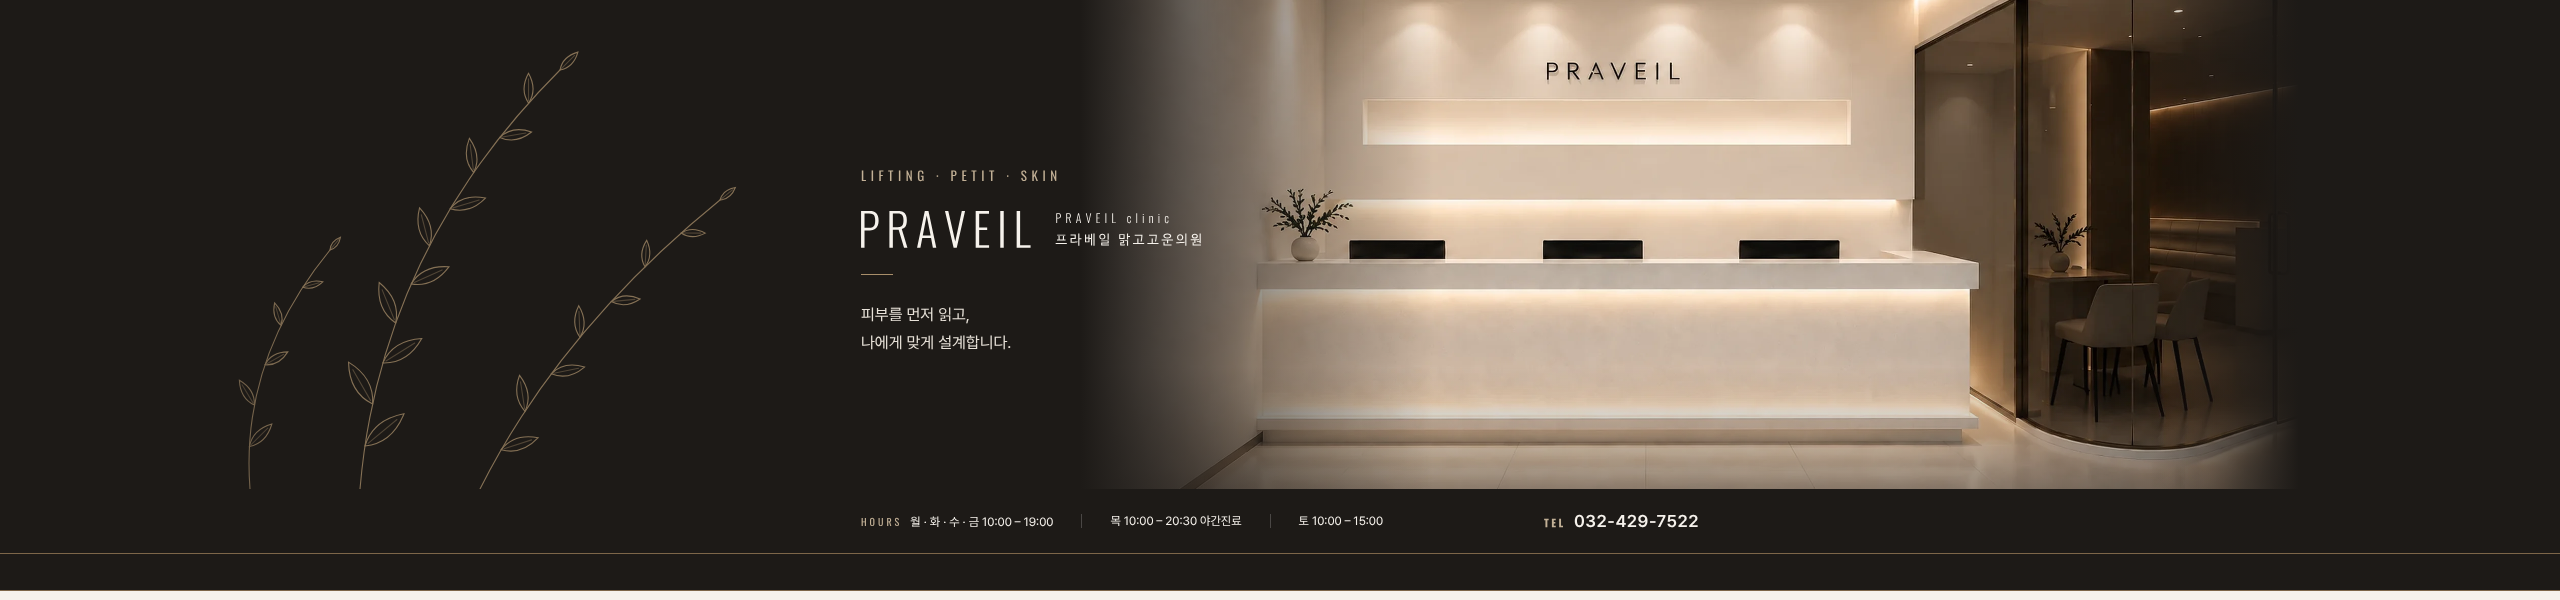
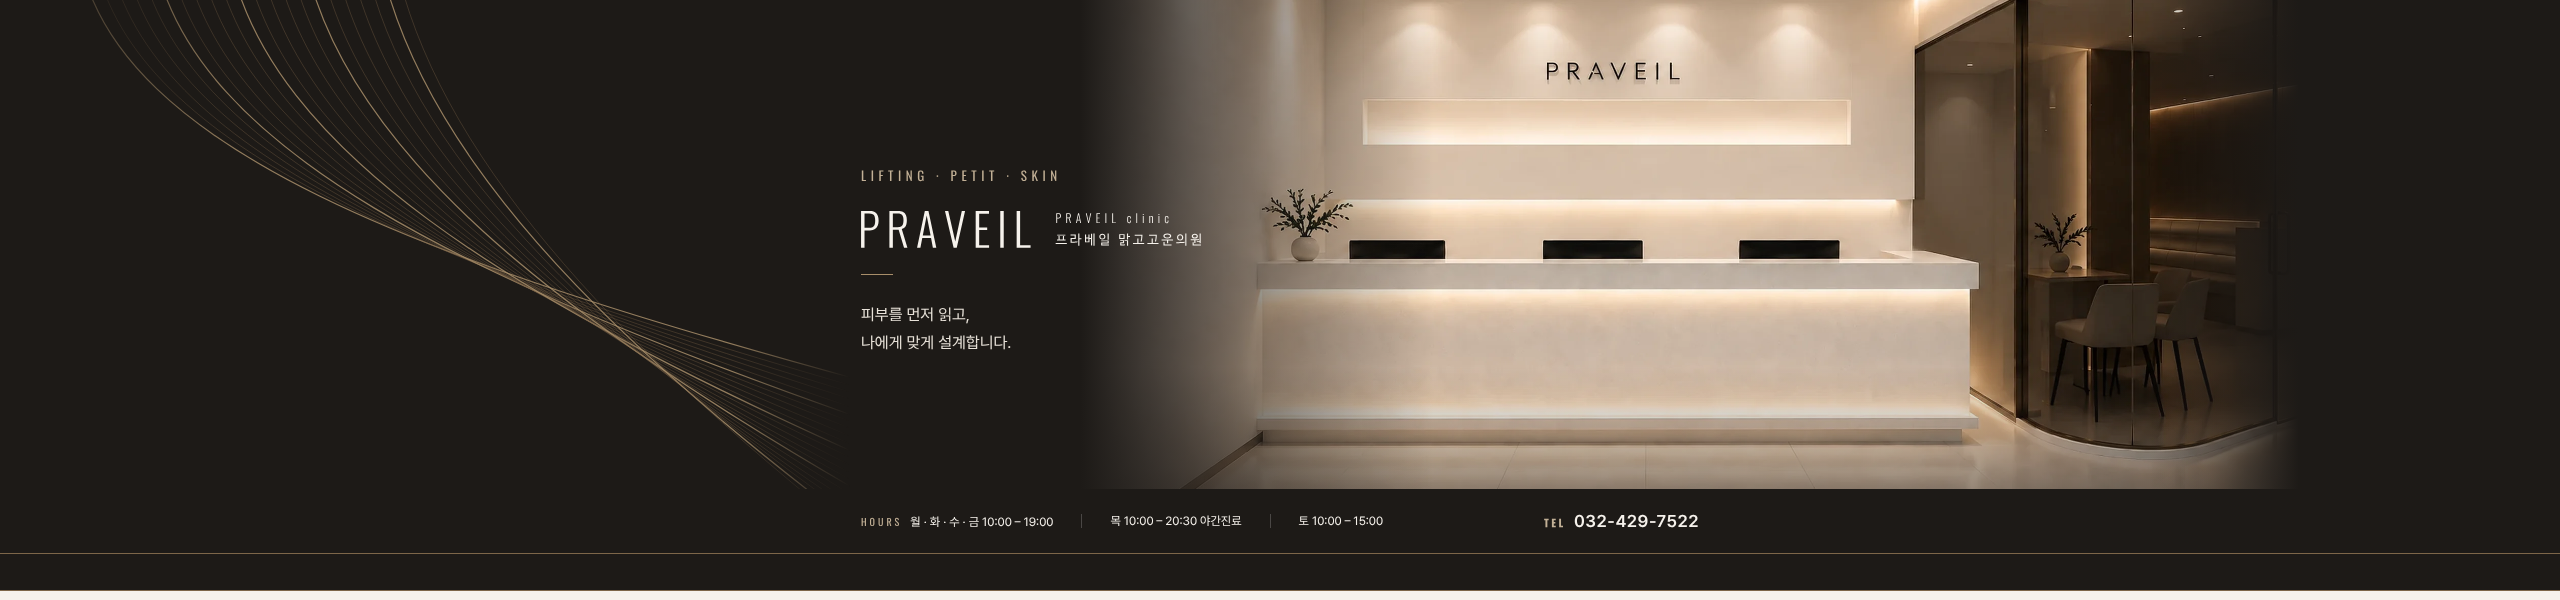
네이버 블로그 머리 배경 왼쪽 문양을 흘러내리는 비단 곡선으로
Claude-Session: https://claude.ai/code/session_01Ld2YJmc6iArSkVBjrjkKUN

diff --git a/docs/naver-blog-skin/skin.html b/docs/naver-blog-skin/skin.html
@@ -182,30 +182,36 @@
           ),
           linear-gradient(rgba(29, 26, 23, 0) 75%, rgba(29, 26, 23, 0.45) 100%);
       }
-      /* 왼쪽 짙은 여백의 잎 가지 라인 드로잉 (사진 속 화분과 어울리게, 선 색 = gold).
+      /* 왼쪽 짙은 여백의 비단 곡선: 왼쪽 위에서 글씨 쪽 아래로 흘러내리는 선 다발 (5줄마다 금색).
          왼쪽 끝은 흐리게 사라져 가로 반복 이음매가 보이지 않음 */
       #background .pattern {
         position: absolute;
         left: 0;
         top: 0;
-        opacity: 0.75;
         -webkit-mask-image: linear-gradient(
           90deg,
           transparent 0,
-          #000 300px,
-          #000 760px,
-          transparent 860px
+          #000 240px,
+          #000 730px,
+          transparent 850px
         );
         mask-image: linear-gradient(
           90deg,
           transparent 0,
-          #000 300px,
-          #000 760px,
-          transparent 860px
+          #000 240px,
+          #000 730px,
+          transparent 850px
         );
       }
-      #background .pattern .vein {
-        stroke-opacity: 0.5;
+      #background .pattern .lo {
+        stroke: var(--mocha);
+        stroke-width: 0.8;
+        stroke-opacity: 0.45;
+      }
+      #background .pattern .hi {
+        stroke: var(--gold);
+        stroke-width: 1.2;
+        stroke-opacity: 0.85;
       }
       #background .copy {
         position: absolute;
@@ -635,122 +641,36 @@
     <!-- 1. 빈 타이틀 (투명) -->
     <section class="asset" id="title"></section>
 
-    <!-- 2. 스킨 배경: 화면 전체 폭 머리 (로비 사진 + 왼쪽 잎 가지 문양) -->
+    <!-- 2. 스킨 배경: 화면 전체 폭 머리 (로비 사진 + 왼쪽 비단 곡선) -->
     <section class="asset hb" id="background">
       <div class="shot">
         <img class="photo" src="../../public/images/photos/hero-lobby.webp" />
       </div>
       <div class="shade"></div>
       <svg class="pattern" width="900" height="489" viewBox="0 0 900 489">
-        <g
-          fill="none"
-          stroke="#a88e6a"
-          stroke-width="1.1"
-          stroke-linecap="round"
-        >
-          <path d="M360 489 Q380 250 560 70" />
-          <g transform="translate(365.0 446.0) rotate(-39.6)">
-            <path d="M0 0 Q22.8 -15.2 50.6 0 Q22.8 15.2 0 0 Z" />
-            <path class="vein" d="M4.0 0 L41.5 0" />
-          </g>
-          <g transform="translate(372.6 404.0) rotate(-119.9)">
-            <path d="M0 0 Q21.7 -14.5 48.3 0 Q21.7 14.5 0 0 Z" />
-            <path class="vein" d="M3.9 0 L39.6 0" />
-          </g>
-          <g transform="translate(382.8 363.0) rotate(-32.1)">
-            <path d="M0 0 Q20.7 -13.8 46.0 0 Q20.7 13.8 0 0 Z" />
-            <path class="vein" d="M3.7 0 L37.7 0" />
-          </g>
-          <g transform="translate(395.7 323.0) rotate(-112.2)">
-            <path d="M0 0 Q19.7 -13.1 43.7 0 Q19.7 13.1 0 0 Z" />
-            <path class="vein" d="M3.5 0 L35.8 0" />
-          </g>
-          <g transform="translate(411.2 283.9) rotate(-24.4)">
-            <path d="M0 0 Q18.6 -12.4 41.4 0 Q18.6 12.4 0 0 Z" />
-            <path class="vein" d="M3.3 0 L33.9 0" />
-          </g>
-          <g transform="translate(429.4 245.8) rotate(-104.6)">
-            <path d="M0 0 Q17.6 -11.7 39.1 0 Q17.6 11.7 0 0 Z" />
-            <path class="vein" d="M3.1 0 L32.1 0" />
-          </g>
-          <g transform="translate(450.2 208.7) rotate(-16.8)">
-            <path d="M0 0 Q16.6 -11.0 36.8 0 Q16.6 11.0 0 0 Z" />
-            <path class="vein" d="M2.9 0 L30.2 0" />
-          </g>
-          <g transform="translate(473.7 172.6) rotate(-97.2)">
-            <path d="M0 0 Q15.5 -10.3 34.5 0 Q15.5 10.3 0 0 Z" />
-            <path class="vein" d="M2.8 0 L28.3 0" />
-          </g>
-          <g transform="translate(499.8 137.4) rotate(-9.6)">
-            <path d="M0 0 Q14.5 -9.7 32.2 0 Q14.5 9.7 0 0 Z" />
-            <path class="vein" d="M2.6 0 L26.4 0" />
-          </g>
-          <g transform="translate(528.6 103.2) rotate(-90.2)">
-            <path d="M0 0 Q13.5 -9.0 29.9 0 Q13.5 9.0 0 0 Z" />
-            <path class="vein" d="M2.4 0 L24.5 0" />
-          </g>
-          <g transform="translate(560.0 70.0) rotate(-45.0)">
-            <path d="M0 0 Q11.4 -7.8 25.3 0 Q11.4 7.8 0 0 Z" />
-            <path class="vein" d="M2.0 0 L20.7 0" />
-          </g>
-          <path d="M480 489 Q560 330 720 200" />
-          <g transform="translate(501.2 449.7) rotate(-17.9)">
-            <path d="M0 0 Q17.5 -11.7 38.9 0 Q17.5 11.7 0 0 Z" />
-            <path class="vein" d="M3.1 0 L31.9 0" />
-          </g>
-          <g transform="translate(525.0 411.3) rotate(-98.6)">
-            <path d="M0 0 Q16.4 -10.9 36.4 0 Q16.4 10.9 0 0 Z" />
-            <path class="vein" d="M2.9 0 L29.9 0" />
-          </g>
-          <g transform="translate(551.2 373.8) rotate(-11.4)">
-            <path d="M0 0 Q15.3 -10.2 34.0 0 Q15.3 10.2 0 0 Z" />
-            <path class="vein" d="M2.7 0 L27.9 0" />
-          </g>
-          <g transform="translate(580.0 337.2) rotate(-92.3)">
-            <path d="M0 0 Q14.2 -9.4 31.5 0 Q14.2 9.4 0 0 Z" />
-            <path class="vein" d="M2.5 0 L25.8 0" />
-          </g>
-          <g transform="translate(611.2 301.6) rotate(-5.3)">
-            <path d="M0 0 Q13.1 -8.7 29.0 0 Q13.1 8.7 0 0 Z" />
-            <path class="vein" d="M2.3 0 L23.8 0" />
-          </g>
-          <g transform="translate(645.0 266.8) rotate(-86.4)">
-            <path d="M0 0 Q11.9 -8.0 26.5 0 Q11.9 8.0 0 0 Z" />
-            <path class="vein" d="M2.1 0 L21.8 0" />
-          </g>
-          <g transform="translate(681.2 233.0) rotate(0.3)">
-            <path d="M0 0 Q10.8 -7.2 24.1 0 Q10.8 7.2 0 0 Z" />
-            <path class="vein" d="M1.9 0 L19.7 0" />
-          </g>
-          <g transform="translate(720.0 200.0) rotate(-39.1)">
-            <path d="M0 0 Q8.9 -6.1 19.8 0 Q8.9 6.1 0 0 Z" />
-            <path class="vein" d="M1.6 0 L16.2 0" />
-          </g>
-          <path d="M250 489 Q240 360 330 250" />
-          <g transform="translate(249.4 446.5) rotate(-45.0)">
-            <path d="M0 0 Q14.3 -9.5 31.7 0 Q14.3 9.5 0 0 Z" />
-            <path class="vein" d="M2.5 0 L26.0 0" />
-          </g>
-          <g transform="translate(254.4 405.1) rotate(-121.2)">
-            <path d="M0 0 Q13.0 -8.7 29.0 0 Q13.0 8.7 0 0 Z" />
-            <path class="vein" d="M2.3 0 L23.8 0" />
-          </g>
-          <g transform="translate(265.0 364.8) rotate(-29.5)">
-            <path d="M0 0 Q11.8 -7.9 26.2 0 Q11.8 7.9 0 0 Z" />
-            <path class="vein" d="M2.1 0 L21.5 0" />
-          </g>
-          <g transform="translate(281.1 325.4) rotate(-106.0)">
-            <path d="M0 0 Q10.6 -7.0 23.5 0 Q10.6 7.0 0 0 Z" />
-            <path class="vein" d="M1.9 0 L19.3 0" />
-          </g>
-          <g transform="translate(302.8 287.2) rotate(-15.1)">
-            <path d="M0 0 Q9.3 -6.2 20.7 0 Q9.3 6.2 0 0 Z" />
-            <path class="vein" d="M1.7 0 L17.0 0" />
-          </g>
-          <g transform="translate(330.0 250.0) rotate(-50.7)">
-            <path d="M0 0 Q7.4 -5.1 16.5 0 Q7.4 5.1 0 0 Z" />
-            <path class="vein" d="M1.3 0 L13.5 0" />
-          </g>
+        <g fill="none">
+          <path class="hi" d="M80 -40 C 120 150, 420 260, 860 380" />
+          <path class="lo" d="M95 -40 C 135 150, 429 264, 860 388" />
+          <path class="lo" d="M110 -40 C 150 150, 438 268, 860 395" />
+          <path class="lo" d="M125 -40 C 165 150, 447 271, 860 402" />
+          <path class="lo" d="M140 -40 C 180 150, 456 275, 860 410" />
+          <path class="hi" d="M155 -40 C 195 150, 465 279, 860 418" />
+          <path class="lo" d="M170 -40 C 210 150, 474 282, 860 425" />
+          <path class="lo" d="M185 -40 C 225 150, 483 286, 860 432" />
+          <path class="lo" d="M200 -40 C 240 150, 492 290, 860 440" />
+          <path class="lo" d="M215 -40 C 255 150, 501 294, 860 448" />
+          <path class="hi" d="M230 -40 C 270 150, 510 298, 860 455" />
+          <path class="lo" d="M245 -40 C 285 150, 519 301, 860 462" />
+          <path class="lo" d="M260 -40 C 300 150, 528 305, 860 470" />
+          <path class="lo" d="M275 -40 C 315 150, 537 309, 860 478" />
+          <path class="lo" d="M290 -40 C 330 150, 546 312, 860 485" />
+          <path class="hi" d="M305 -40 C 345 150, 555 316, 860 492" />
+          <path class="lo" d="M320 -40 C 360 150, 564 320, 860 500" />
+          <path class="lo" d="M335 -40 C 375 150, 573 324, 860 508" />
+          <path class="lo" d="M350 -40 C 390 150, 582 328, 860 515" />
+          <path class="lo" d="M365 -40 C 405 150, 591 331, 860 522" />
+          <path class="hi" d="M380 -40 C 420 150, 600 335, 860 530" />
+          <path class="lo" d="M395 -40 C 435 150, 609 339, 860 538" />
         </g>
       </svg>
       <div class="copy">

diff --git a/docs/naver-blog-skin/README.md b/docs/naver-blog-skin/README.md
@@ -25,7 +25,7 @@
    기본 위젯 중 프로필 · 카테고리만 남기고 나머지(방문자 · 달력 · 태그 등)는 끕니다.
 2. **리모콘** (꾸미기 설정 → 세부 디자인 설정)
    - 스킨배경: 직접등록 → `background.png`, 위치 가운데(위) · **가로 반복**, 바탕색 `#f6f2ec`
-     머리 디자인(로고 · 로비 사진 · 잎 가지 문양 · 진료시간 띠 · 메뉴 뒤 짙은 띠)이 모두 이 배경에 있어 화면 끝까지 꽉 차 보입니다.
+     머리 디자인(로고 · 로비 사진 · 비단 곡선 · 진료시간 띠 · 메뉴 뒤 짙은 띠)이 모두 이 배경에 있어 화면 끝까지 꽉 차 보입니다.
    - 타이틀: 블로그 제목 표시 끄기, **영역 높이 520**, 직접등록 → `title.png` (투명 그림. 높이가 다르면 메뉴가 배경 띠와 어긋납니다)
    - 블로그 메뉴: 바탕 `#1d1a17`, 글자 `#c2b096`, 선택한 메뉴 `#ffffff` (타이틀 아래 짙은 띠와 이어지게). 구분선 색을 고를 수 있으면 `#7d6649`
    - 포스트 영역 · 위젯 바탕: `#ffffff`, 테두리 · 구분선 `#e8e2d9`, 강조 글자 `#a88e6a`
